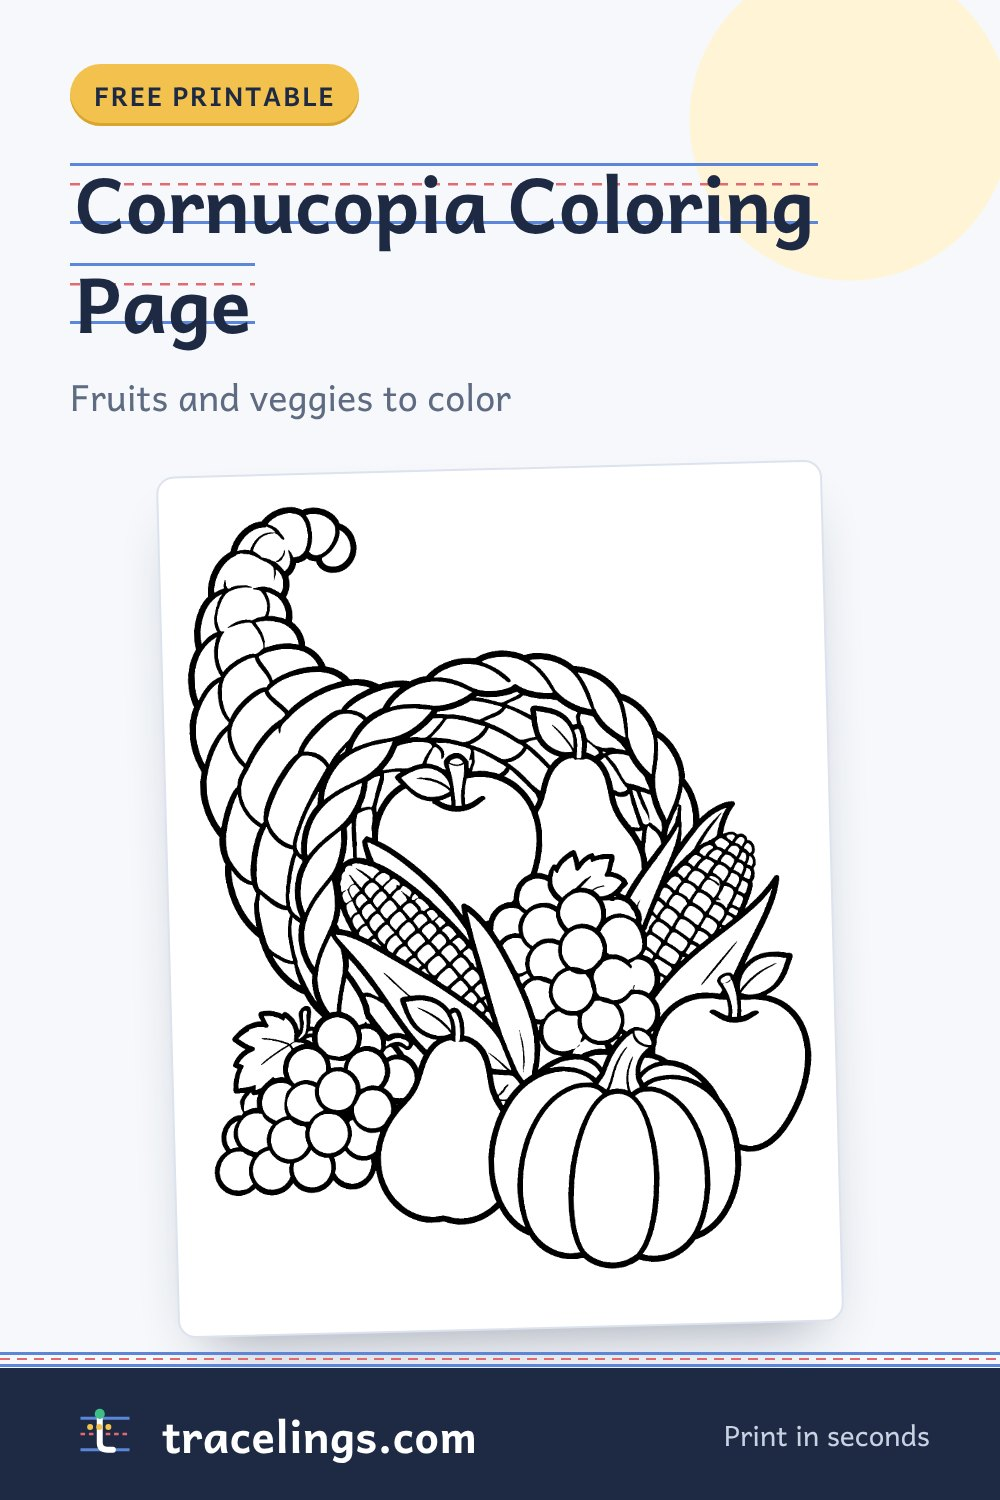
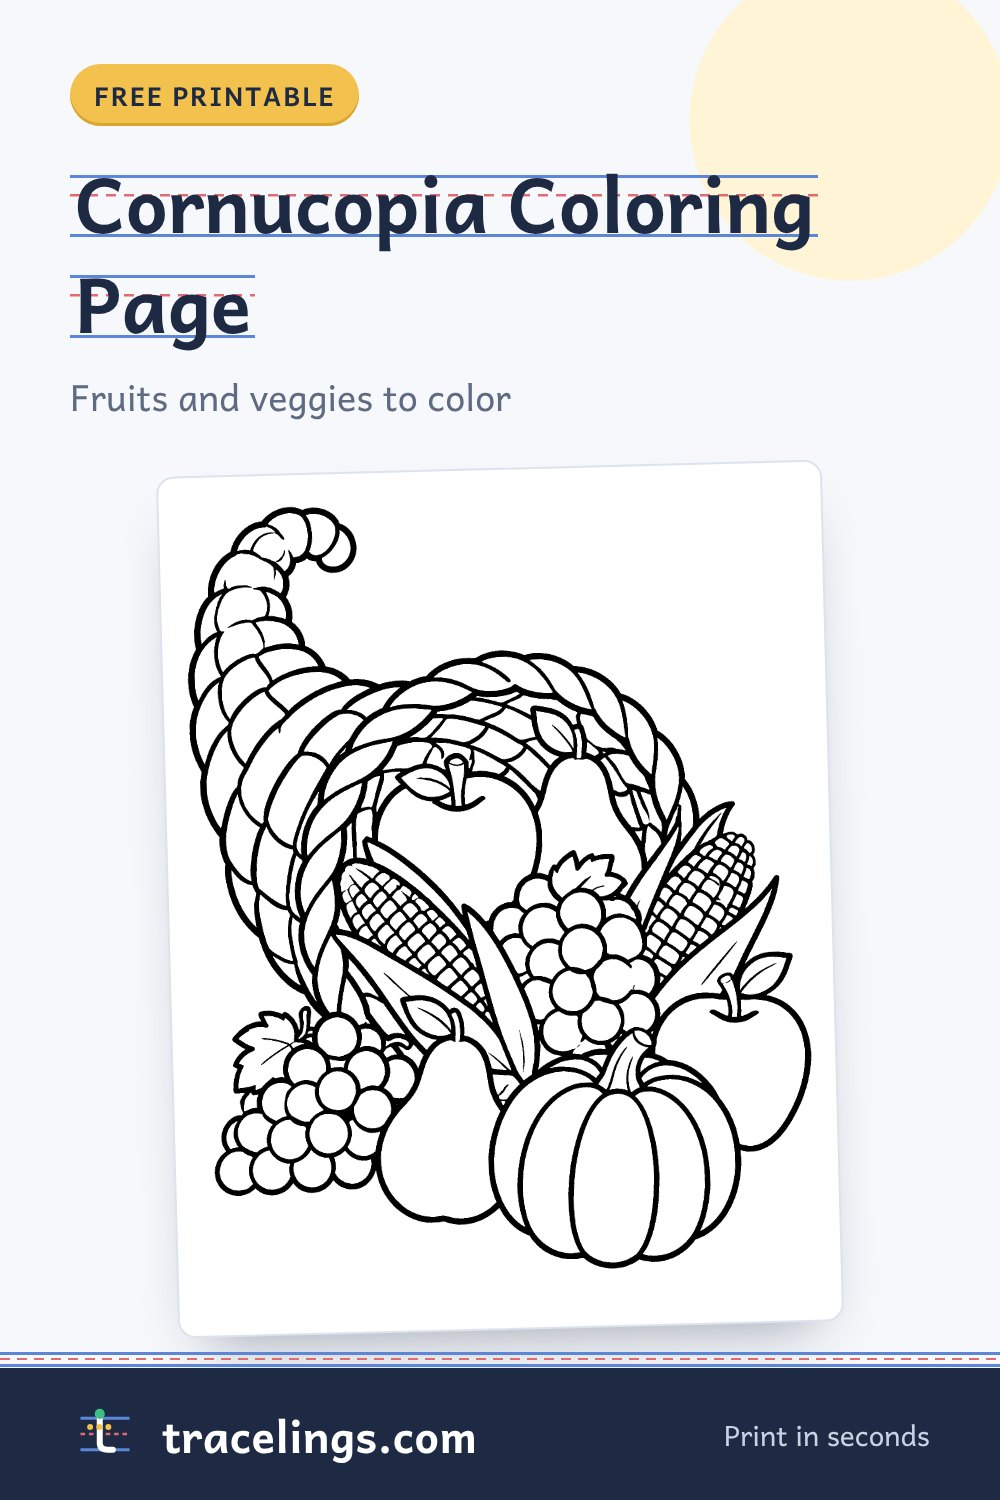
Align pin headlines to the handwriting lines
Claude-Session: https://claude.ai/code/session_01T7qMCJ6dCjyGVB2vkbgdy1

Changed region(s): [[0.062, 0.092, 0.806, 0.2147], [0.093, 0.2147, 0.124, 0.2453]]

diff --git a/scripts/pins/make-pins.py b/scripts/pins/make-pins.py
@@ -20,7 +20,7 @@ body {{ width: 1000px; height: 1500px; font-family: Andika, sans-serif; color: #
 h1 {{ margin-top: 26px; font-size: 76px; line-height: 1.32; font-weight: 700; letter-spacing: -.01em; }}
 h1 span {{ padding: 0 .06em; -webkit-box-decoration-break: clone; box-decoration-break: clone;
   background-image: linear-gradient(#5b86d9,#5b86d9), repeating-linear-gradient(90deg,#e46a72 0 10px,transparent 10px 18px), linear-gradient(#5b86d9,#5b86d9);
-  background-size: 100% 3px, 100% 2.5px, 100% 3px; background-position: 0 .3em, 0 .56em, 0 1.06em; background-repeat: no-repeat; }}
+  background-size: 100% 3px, 100% 2.5px, 100% 3px; background-position: 0 calc(.48em - 1.5px), 0 calc(.72em - 1px), 0 calc(1.22em + 1.5px); background-repeat: no-repeat; }}
 .sub {{ margin-top: 14px; font-size: 36px; color: #5f6b82; }}
 .stage {{ position: absolute; left: 70px; right: 70px; top: var(--top); bottom: 170px; display: flex; align-items: center; justify-content: center; }}
 .card {{ background: #fff; border: 2px solid #dce3ee; border-radius: 18px; box-shadow: 0 30px 60px -30px rgba(30,42,68,.45); padding: 18px; }}
